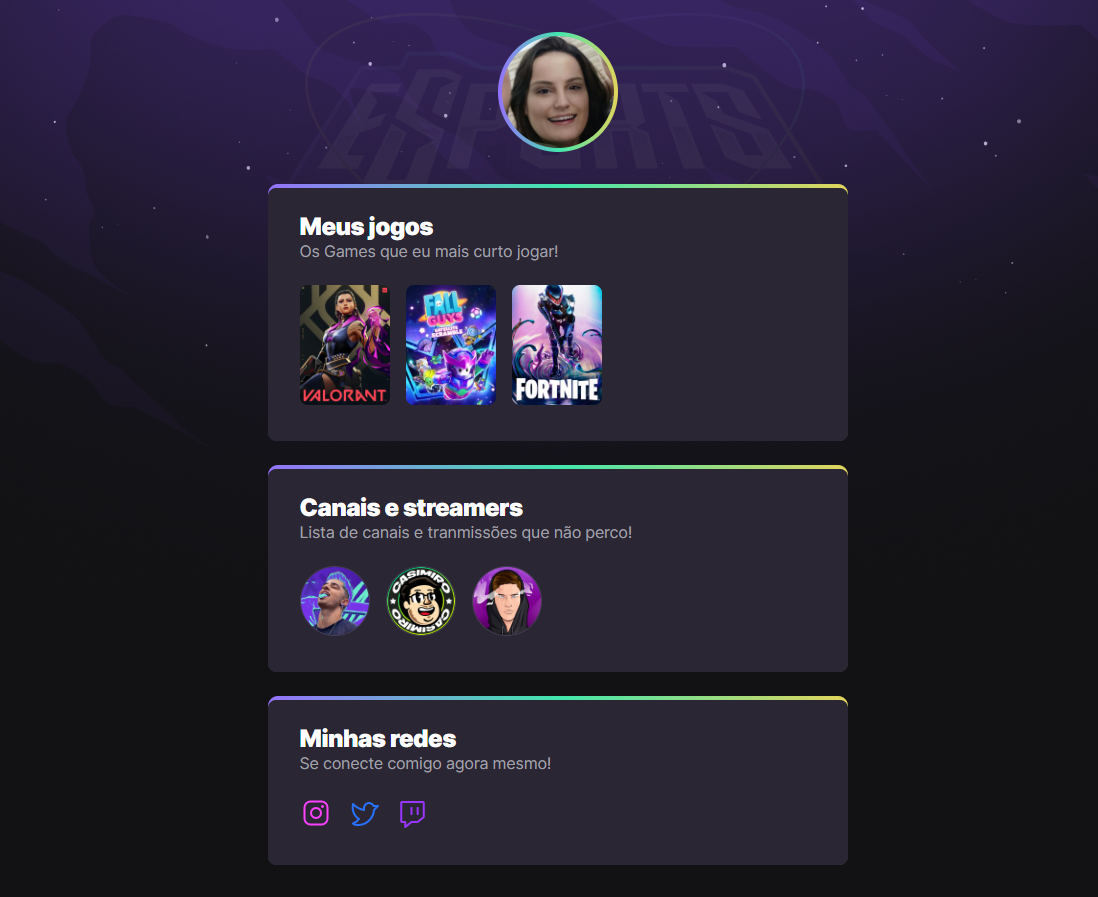
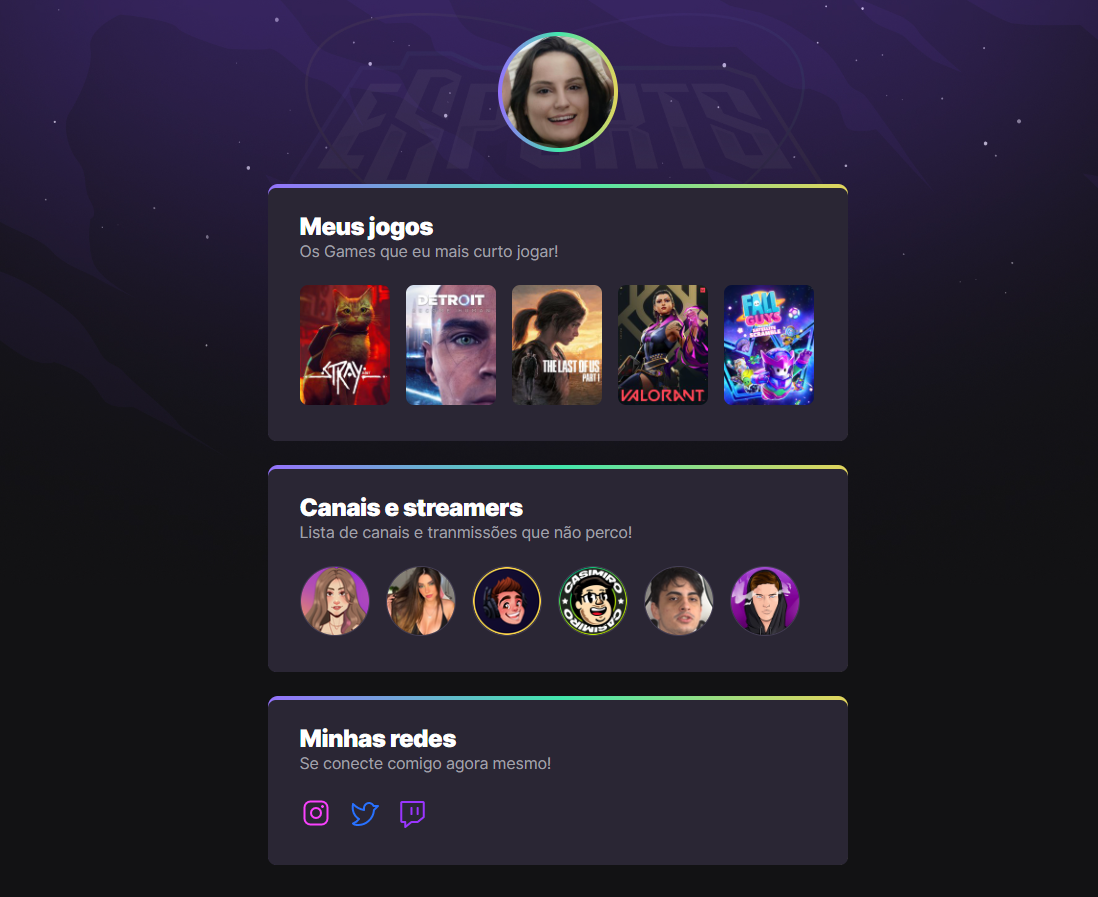
update

Changed region(s): [[0.2477, 0.3122, 0.7432, 0.4682], [0.2477, 0.6243, 0.7432, 0.7179]]

diff --git a/index.html b/index.html
@@ -33,6 +33,30 @@
                         <li>
                             <a
                             target="_blank"
+                            href="https://www.twitch.tv/directory/game/Stray">
+                                <img src="https://static-cdn.jtvnw.net/ttv-boxart/518006_IGDB-188x250.jpg" alt="Imagem do jogo Stray">
+                            </a>
+                        </li>
+
+                        <li>
+                            <a
+                            target="_blank"
+                            href="https://www.twitch.tv/directory/game/Detroit%3A%20Become%20Human">
+                                <img src="https://static-cdn.jtvnw.net/ttv-boxart/497480_IGDB-188x250.jpg" alt="Imagem do jogo Detroit: Become Human">
+                            </a>
+                        </li>
+
+                        <li>
+                            <a
+                            target="_blank"
+                            href="https://www.twitch.tv/directory/game/The%20Last%20of%20Us%20Part%20I">
+                                <img src="https://static-cdn.jtvnw.net/ttv-boxart/294724507_IGDB-188x250.jpg" alt="Imagem do jogo The Last of Us 1">
+                            </a>
+                        </li>
+
+                        <li>
+                            <a
+                            target="_blank"
                             href="https://www.twitch.tv/directory/game/VALORANT">
                                 <img src="https://static-cdn.jtvnw.net/ttv-boxart/516575-188x250.jpg" alt="Imagem do jogo Valorant">
                             </a>
@@ -46,13 +70,7 @@
                             </a>
                         </li>
 
-                        <li>
-                            <a
-                            target="_blank"
-                            href="https://www.twitch.tv/directory/game/Fortnite">
-                                <img src="https://static-cdn.jtvnw.net/ttv-boxart/33214-188x250.jpg" alt="Imagem do jogo Fortnite">
-                            </a>
-                        </li>
+                       
                     </ul>
                 </div>
             </section>
@@ -66,8 +84,24 @@
                         <li>
                             <a
                             target="_blank"
-                            href="https://www.twitch.tv/loud_coringa">
-                                <img src="https://static-cdn.jtvnw.net/jtv_user_pictures/c07acddc-1e1b-479f-97c4-09636f80e857-profile_image-150x150.png" alt="Imagem do Loud Coringa">
+                            href="https://www.twitch.tv/sofiaespanha">
+                                <img src="https://static-cdn.jtvnw.net/jtv_user_pictures/c6eb5fa7-8c07-4daf-8101-fa9aa9320abf-profile_image-70x70.png" alt="Imagem da Sofia Espanha">
+                            </a>
+                        </li>
+
+                        <li>
+                            <a
+                            target="_blank"
+                            href="https://www.twitch.tv/loud_mii">
+                                <img src="https://static-cdn.jtvnw.net/jtv_user_pictures/6f607df3-d7f2-4d2f-816b-c1993d24e9b2-profile_image-70x70.png" alt="Imagem do Alanzoka">
+                            </a>
+                        </li>
+
+                        <li>
+                            <a
+                            target="_blank"
+                            href="https://www.twitch.tv/alanzoka">
+                                <img src="https://static-cdn.jtvnw.net/jtv_user_pictures/15cec952-c1ba-4ff8-a79c-53c2fa5bd269-profile_image-70x70.png" alt="Imagem do Alanzoka">
                             </a>
                         </li>
 
@@ -82,8 +116,16 @@
                         <li>
                             <a
                             target="_blank"
+                            href="https://www.twitch.tv/tioorochitwitch">
+                                <img src="https://static-cdn.jtvnw.net/jtv_user_pictures/b99a08d2-29ab-4ff1-99eb-01246d41efb7-profile_image-70x70.png" alt="Imagem do tioorochitwitch">
+                            </a>
+                        </li>
+
+                        <li>
+                            <a
+                            target="_blank"
                             href="https://www.twitch.tv/biropjl">
-                                <img src="https://static-cdn.jtvnw.net/jtv_user_pictures/296df498-4e57-4151-94c7-0d5bd08cb5dc-profile_image-150x150.png" alt="Imagem ">
+                                <img src="https://static-cdn.jtvnw.net/jtv_user_pictures/296df498-4e57-4151-94c7-0d5bd08cb5dc-profile_image-150x150.png" alt="Imagem do BiroPJL ">
                             </a>
                         </li>
                     </ul>
@@ -111,7 +153,7 @@
                         <li>
                             <a
                             target="_blank"
-                            href="">
+                            href="https://twitter.com/">
                             <svg width="32" height="32" viewBox="0 0 32 32" fill="none" xmlns="http://www.w3.org/2000/svg">
                                 <path d="M16 11C16 8.25003 18.3125 5.96253 21.0625 6.00003C22.0256 6.01115 22.9649 6.30018 23.7676 6.83237C24.5704 7.36457 25.2023 8.11728 25.5875 9.00003H30L25.9625 13.0375C25.7019 17.0932 23.9066 20.8975 20.9415 23.6769C17.9764 26.4562 14.0641 28.002 10 28C6 28 5 26.5 5 26.5C5 26.5 9 25 11 22C11 22 3 18 5 7.00003C5 7.00003 10 12 16 13V11Z" stroke="#2871FF" stroke-width="2" stroke-linecap="round" stroke-linejoin="round"/>
                             </svg>
@@ -121,7 +163,7 @@
                         <li>
                             <a
                             target="_blank"
-                            href="">
+                            href="https://www.twitch.tv/">
                             <svg width="33" height="32" viewBox="0 0 33 32" fill="none" xmlns="http://www.w3.org/2000/svg">
                                 <path d="M21.2824 25H15.8426C15.6011 25.0001 15.3678 25.0844 15.1852 25.2375L9.28125 30V25H6.1875C5.914 25 5.65169 24.8946 5.4583 24.7071C5.2649 24.5196 5.15625 24.2652 5.15625 24V6C5.15625 5.73478 5.2649 5.48043 5.4583 5.29289C5.65169 5.10536 5.914 5 6.1875 5H26.8125C27.086 5 27.3483 5.10536 27.5417 5.29289C27.7351 5.48043 27.8438 5.73478 27.8438 6V19.5375C27.8417 19.6832 27.8072 19.8267 27.7427 19.9583C27.6782 20.0899 27.5851 20.2065 27.4699 20.3L21.9398 24.7625C21.7572 24.9156 21.5239 24.9999 21.2824 25V25Z" stroke="#9A35FF" stroke-width="2" stroke-linecap="round" stroke-linejoin="round"/>
                                 <path d="M21.6562 11V17" stroke="#9A35FF" stroke-width="2" stroke-linecap="round" stroke-linejoin="round"/>
